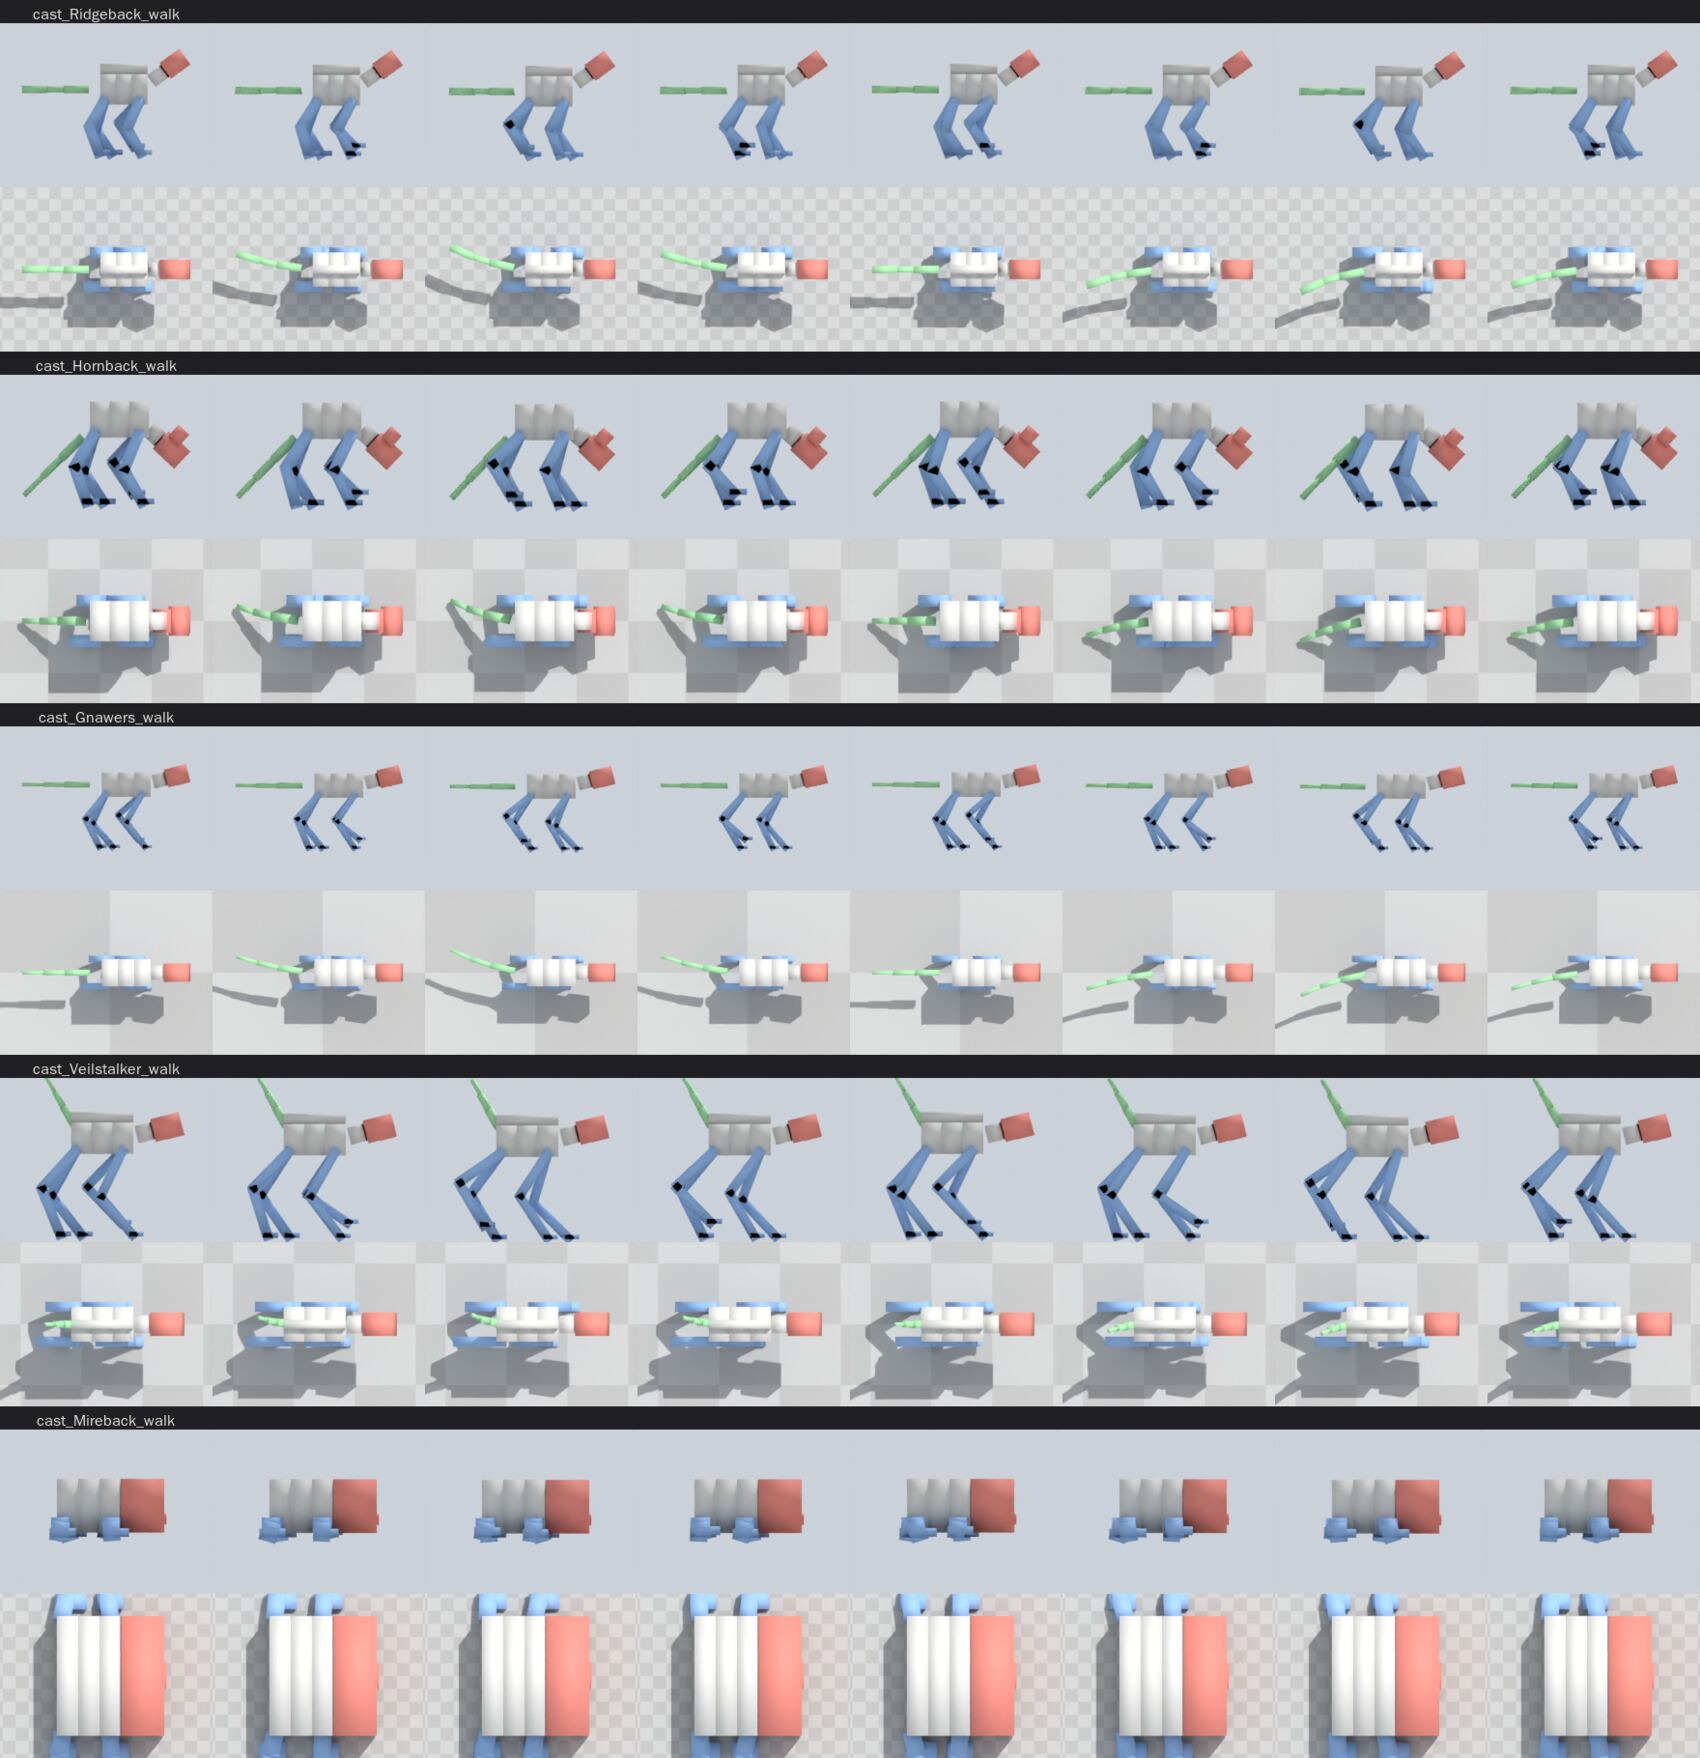
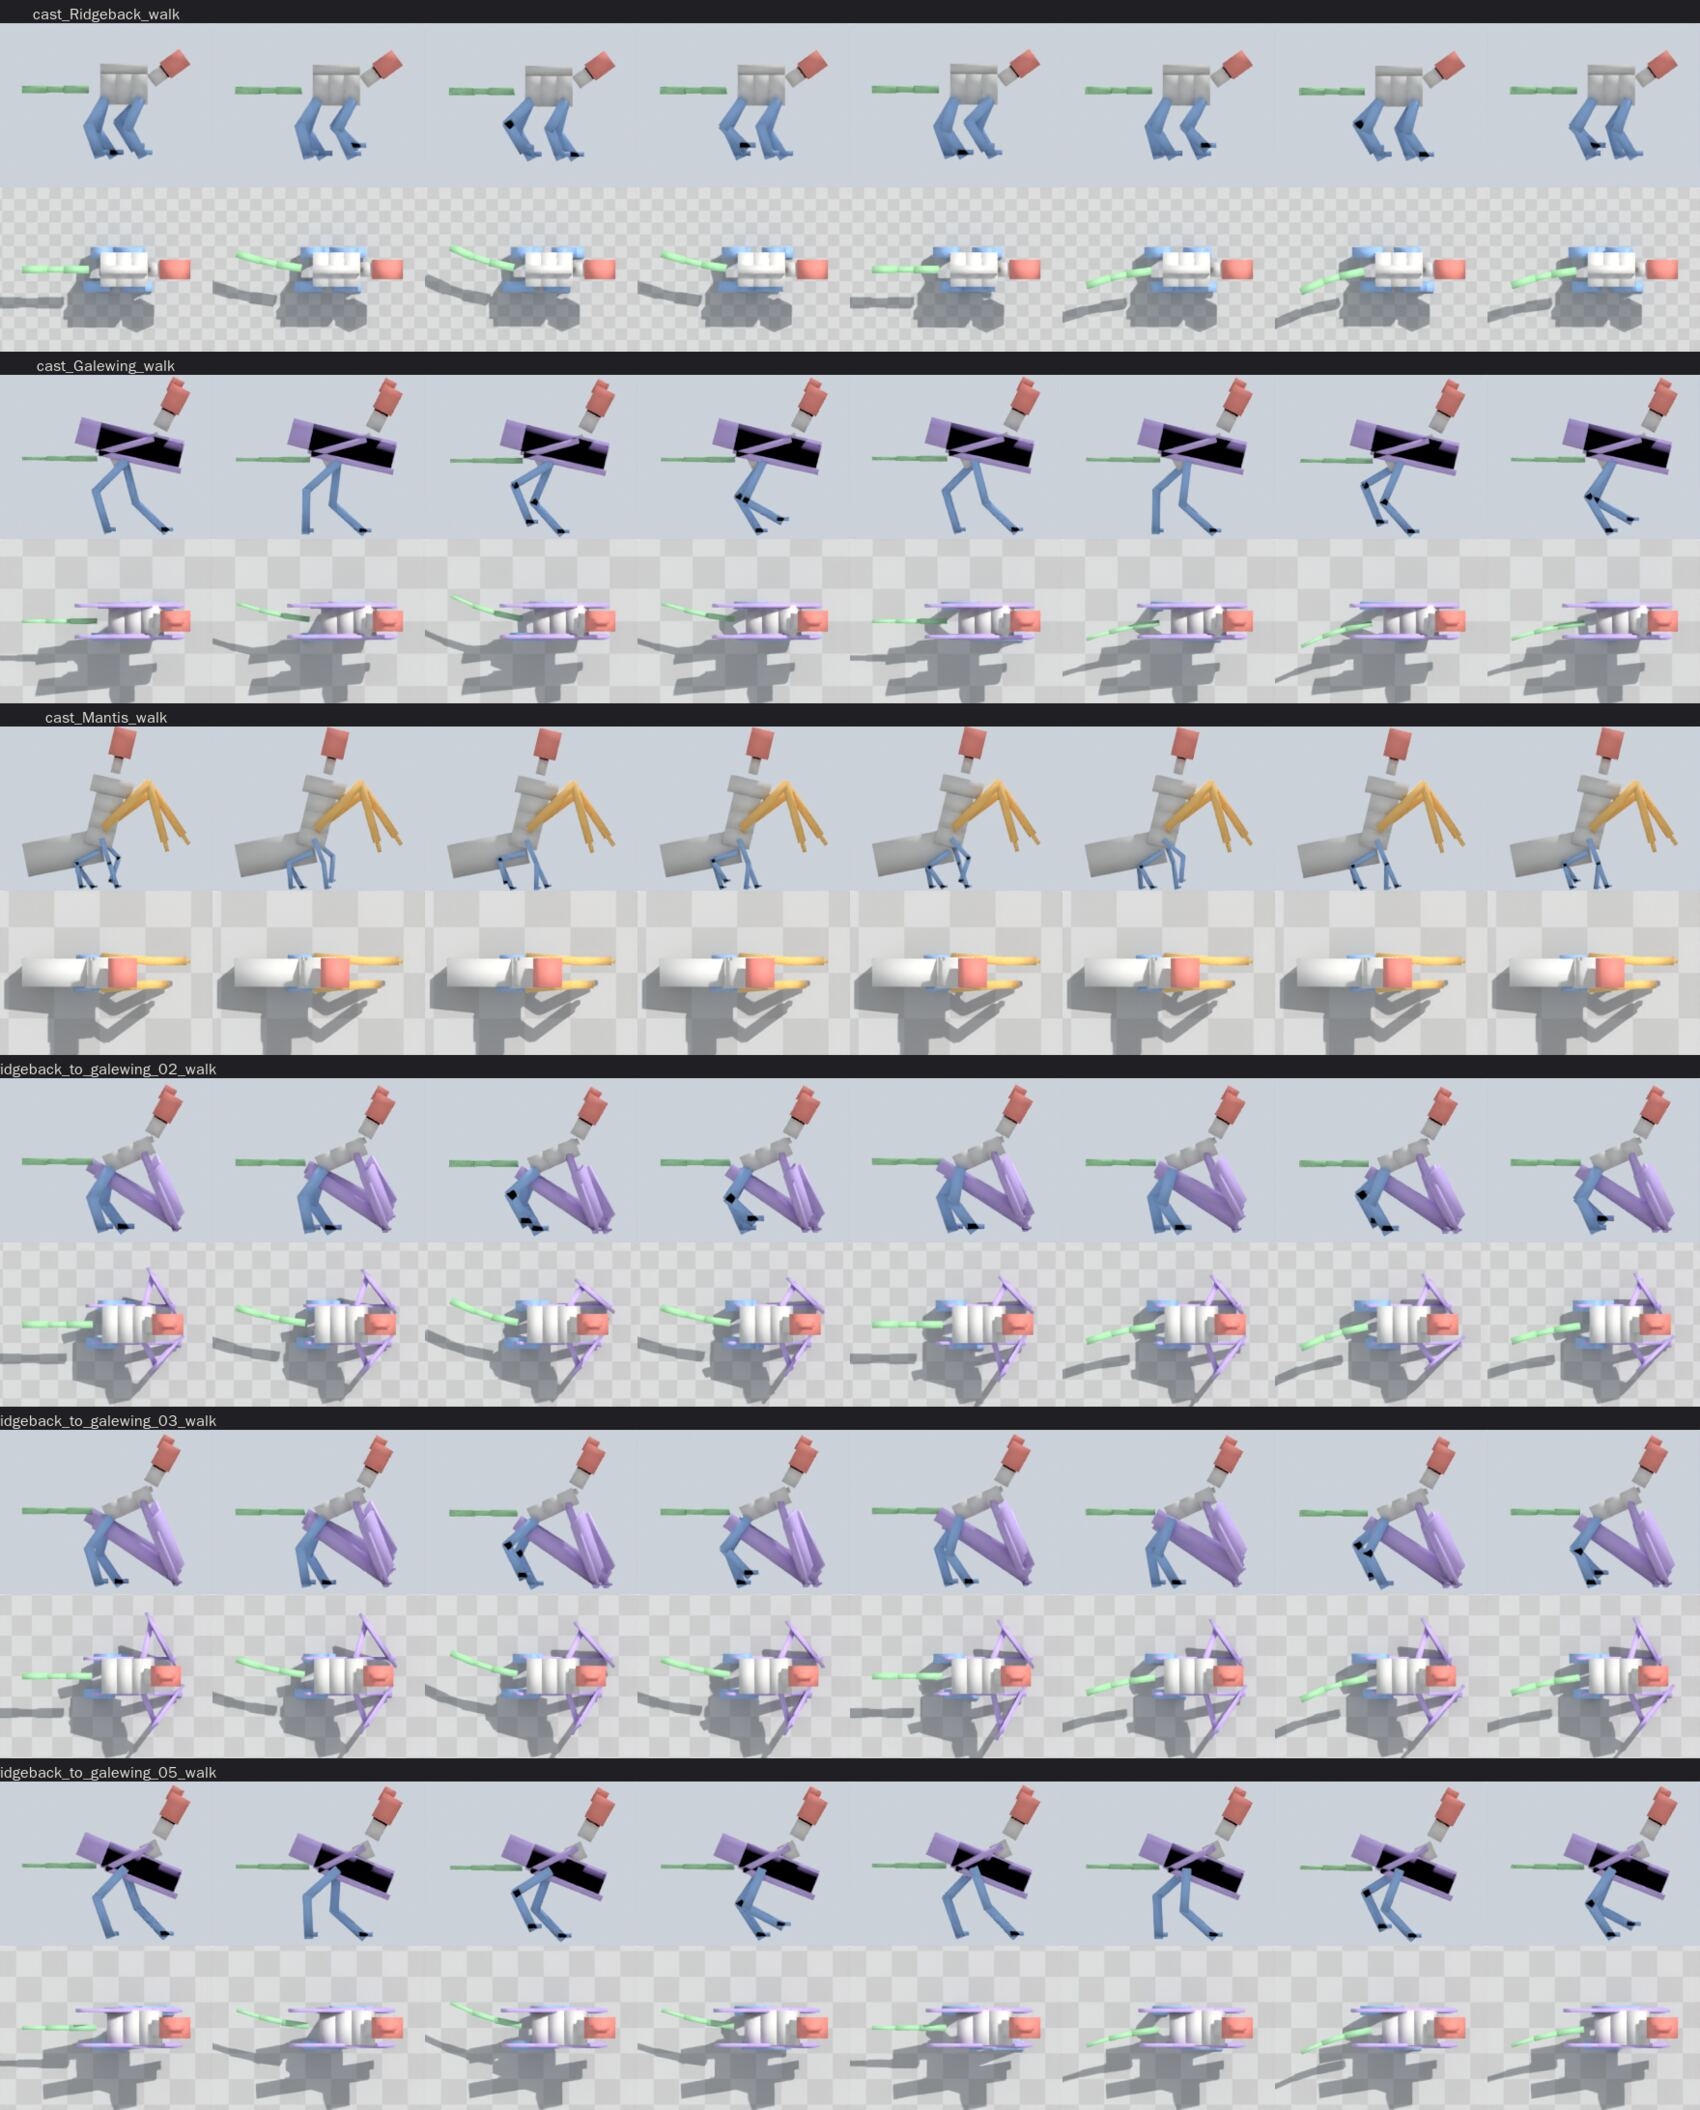
Bodies carried like animals: necks no steeper than a horse's, level bodies no tilt past a hyena's
The head was raised until it cleared the top of the back, which on a
body as deep as it is wide stood every neck up straight; it now rises a
little above the spine and no further than a horse's neck. A pitch
slider bred in from an upright body stood level bodies at sixty
degrees; a level body's pitch is held to a hyena's back on four legs and
a bird's on two. A front pair crouched deep leads with its knee. A test
holds the cast and the lines to it, and the posture test's "head above
the back" measures the body's real depth. Exploration 0033.

Claude-Session: https://claude.ai/code/session_01CJmy1MecZvCjgbckGdYSwh

diff --git a/crates/sim/src/breed/posture.rs b/crates/sim/src/breed/posture.rs
@@ -902,11 +902,20 @@ impl Solver<'_> {
         };
         let mut rise = base;
         if matches!(self.g.head, HeadKind::Forward | HeadKind::Raised) {
+            // A little above the spine, not clear of the back: on a body as
+            // deep as it is wide that drove every neck up to vertical
+            // (exploration 0033). A horse's neck at most, a raised head's a
+            // little more.
             let arm = self.p.neck_len.add(self.p.head_half);
+            let most = if self.g.head == HeadKind::Raised {
+                fx(1, 6)
+            } else {
+                fx(1, 8)
+            };
             for _ in 0..25 {
                 let lift = arm.mul(sin_turns(self.pose.pitch.add(rise)));
-                let front_top = self.p.half_h.mul(fx(3, 5));
-                if lift >= front_top || rise >= fx(1, 4) {
+                let above = self.p.half_h.mul(fx(3, 10));
+                if lift >= above || self.pose.pitch.add(rise) >= most {
                     break;
                 }
                 rise = rise.add(fx(1, 100));
@@ -914,6 +923,15 @@ impl Solver<'_> {
         }
         self.pose.neck_rise = rise;
     }
+}
+
+/// The most a level body is pitched nose up, in turns: a bird stands
+/// tilted on its two legs; on more, a hyena's back at most. A pitch slider
+/// bred in from an upright body stood a four-legged one at sixty degrees
+/// (exploration 0033).
+fn level_pitch_most(g: &Genome) -> Fx {
+    let standing = g.pairs().filter(|(_, p)| p.role.grounded()).count();
+    if standing <= 1 { fx(1, 9) } else { fx(1, 20) }
 }
 
 /// How the genome stands. Deterministic: the same genome always gets the
@@ -960,6 +978,8 @@ pub fn posture(g: &Genome) -> Posture {
             // the floor and its legs are short.
             pitch: if g.stance == Stance::Lowslung {
                 g.sliders.pitch.mul(fx(1, 4)).min(fx(1, 50))
+            } else if g.stance == Stance::Level {
+                g.sliders.pitch.mul(fx(1, 4)).min(level_pitch_most(g))
             } else {
                 g.sliders.pitch.mul(fx(1, 4))
             },
@@ -980,6 +1000,10 @@ pub fn posture(g: &Genome) -> Posture {
         solver.balance();
     }
     solver.vertical();
+    if g.stance == Stance::Level {
+        let most = level_pitch_most(g);
+        solver.pose.pitch = solver.pose.pitch.min(most);
+    }
     // The vertical may have pitched it to get every foot down; the feet
     // follow the weight once more.
     solver.feet();

diff --git a/crates/sim/tests/strides.rs b/crates/sim/tests/strides.rs
@@ -324,3 +324,59 @@ fn every_body_can_move() {
         bad.join("\n")
     );
 }
+
+/// How a body carries itself standing: its torso's pitch and its neck's
+/// rise from level, in degrees.
+fn carriage(g: &Genome) -> (f32, f32) {
+    let q = posture::posture(g);
+    let body = build::body_in(g, &q);
+    let pitch = f(q.pitch) * 360.0;
+    let neck = match (at(&body, "neck"), at(&body, "head")) {
+        (Some(n), Some(h)) => {
+            let d = sub(h, n);
+            let flat = (d[0] * d[0] + d[2] * d[2]).sqrt();
+            d[1].atan2(flat).to_degrees()
+        }
+        _ => 0.0,
+    };
+    (pitch, neck)
+}
+
+/// **Carried like an animal**: a level body no more than about a quarter
+/// of the way to upright, and a neck no steeper than a horse's unless the
+/// genome says the head is raised.
+#[test]
+fn every_body_is_carried_like_an_animal() {
+    let mut bad = vec![];
+    let mut check = |name: String, g: &Genome| {
+        let (pitch, neck) = carriage(g);
+        let level = g.stance == sim::breed::Stance::Level;
+        let neck_max = if g.head == sim::breed::HeadKind::Raised {
+            65.0
+        } else {
+            55.0
+        };
+        // A bird stands tilted on its two legs; a four-legged body, a
+        // hyena's back at most.
+        // Its legs, not wings it leans on: a pterosaur on its wrists is
+        // a biped's tilt.
+        let legs = g.pairs().filter(|(_, p)| p.role.grounded()).count();
+        let pitch_max = if legs <= 1 { 45.0 } else { 20.0 };
+        if level && pitch.abs() > pitch_max {
+            bad.push(format!("{name}: a level body pitched {pitch:.0} degrees"));
+        }
+        // An upright body's head is on top of it, as a mantis's is.
+        if g.stance != sim::breed::Stance::Upright && neck > neck_max {
+            bad.push(format!("{name}: neck up {neck:.0} degrees"));
+        }
+    };
+    for (_, name, g, _) in CAST {
+        check(name.to_string(), g);
+    }
+    for (line, stages) in lines() {
+        for (k, g) in stages.iter().enumerate() {
+            check(format!("{line} {k}"), g);
+        }
+    }
+    assert!(bad.is_empty(), "{}", bad.join("\n"));
+}

diff --git a/crates/sim/src/breed/build.rs b/crates/sim/src/breed/build.rs
@@ -1524,15 +1524,23 @@ type Key = ((i32, i32), (i32, i32));
 
 /// A wing's arm: the humerus and forearm, as shares of the wing. The hand
 /// Whether a standing pair's joint bends forward rather than back: when a
-/// pair behind it stands closer than its own upper segment is long -- an
-/// insect's legs off one short thorax -- the front one leads with its knee,
-/// away from the legs behind, as an insect's do (exploration 0033).
+/// pair behind it stands closer than two fifths of its leg -- an insect's
+/// legs off one short thorax -- or than twice how far its bent knee stands
+/// off the leg's line -- a long pair crouched deep -- the front one leads
+/// with its knee, away from the legs behind, as an insect's do
+/// (exploration 0033).
 fn knee_ahead(g: &Genome, q: &super::posture::Posture, p: &Proportions, i: usize) -> bool {
     let at = q.stations[i].attach;
+    // How far its knee stands off the line from hip to foot, bent as it
+    // stands: a long pair crouched deep reaches back a long way.
+    let ext = q.stations[i].extension.min(Fx::ONE);
+    let off = p.limb[i]
+        .mul(fx(1, 2))
+        .mul(Fx::ONE.sub(ext.mul(ext)).max(Fx::ZERO).sqrt());
     (i + 1..super::STATIONS).any(|j| {
         q.stations[j].grounded
             && g.limbs[j].is_some()
-            && at.sub(q.stations[j].attach) < p.limb[i].mul(fx(2, 5))
+            && at.sub(q.stations[j].attach) < p.limb[i].mul(fx(2, 5)).max(off.mul(Fx::from_int(2)))
     })
 }
 

diff --git a/crates/sim/tests/posture.rs b/crates/sim/tests/posture.rs
@@ -110,7 +110,10 @@ fn heads_are_carried_above_the_back() {
             .or(body.bone_named("thorax"))
             .unwrap();
         let head_y = f(body.at(head).y);
-        let back_y = f(body.at(chest).y) + f(body.half_width) * 0.45 * 0.6;
+        // Above the spine by most of a third of the body's half-depth: a
+        // head carried, not hung -- and no higher, or a body as deep as it
+        // is wide stood its neck up straight (exploration 0033).
+        let back_y = f(body.at(chest).y) + f(build::proportions(g).half_h) * 0.3;
         assert!(
             head_y >= back_y - 0.05,
             "{name}: head at {head_y:.2}, back at {back_y:.2}"

diff --git a/docs/design/exploration/0033_bodies_that_can_move.md b/docs/design/exploration/0033_bodies_that_can_move.md
@@ -79,16 +79,33 @@ target (it is aimed at standing height now).
 
 ![The cast's walks after](../gallery/0033_cast_walks.jpg)
 
+## Carried like an animal
+
+`every_body_is_carried_like_an_animal` asks the standing body two more
+things: a level body tilted no more than a hyena's back on four legs (20
+degrees) or a standing bird's on two (45), and a neck no steeper than a
+horse's (55 degrees; 65 where the genome says the head is raised; an
+upright body's head is on top of it, as a mantis's is). Necks went up to
+vertical because the head was raised until it cleared the top of the back,
+and a body as deep as it is wide put the top of the back high: a head now
+rises a little above the spine and no further than a horse's
+(`Solver::head`). Bodies stood at sixty degrees because a pitch slider bred
+in from an upright body was taken whole by a level one: a level body's pitch
+is held to its limit (`level_pitch_most`). `tests/posture.rs`'s "head above
+the back" measures the back from the body's real depth now, not from a
+depth half its width.
+
+![After: crossbreeds](../gallery/0033_lines_walks.jpg)
+
 ## Still not plausible
 
 The walk strips show what the checks do not yet ask:
 
-- a two-legged body whose fore pair became wings (Ridgeback to Galewing,
-  stages 2 and 3) stands pitched nose-up with its wings folded down to the
-  floor like crutches;
-- heads are carried up on vertical necks;
-- the Mantis-like bodies stand an upright torso on short legs with scythes
-  longer than the legs;
+- folded wings are drawn as slabs as deep as the body, and a wing walked on
+  (Ridgeback to Galewing, stages 2 and 3) shows its folded panels as a big N
+  beside the legs;
+- the Mantis-like bodies stand on legs short for them, with scythes longer
+  than the legs;
 - the Ridgeback's torso is short for legs as long as its.
 
 The hand edits of 0032 are retired (`game::touch::TOUCHES` is empty): they
